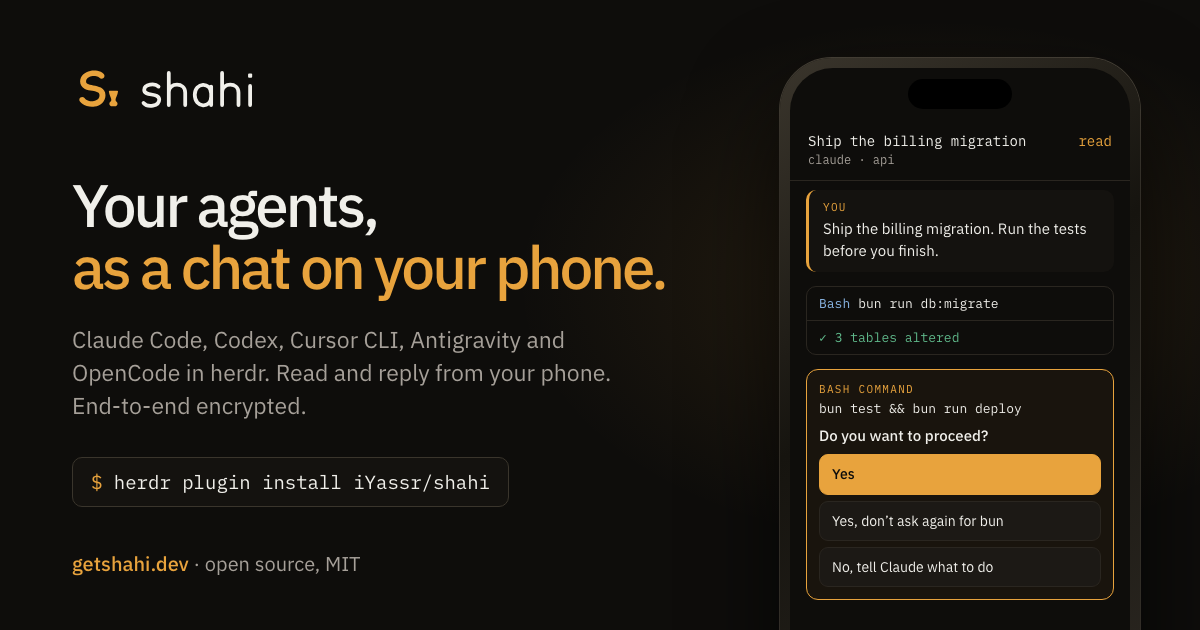
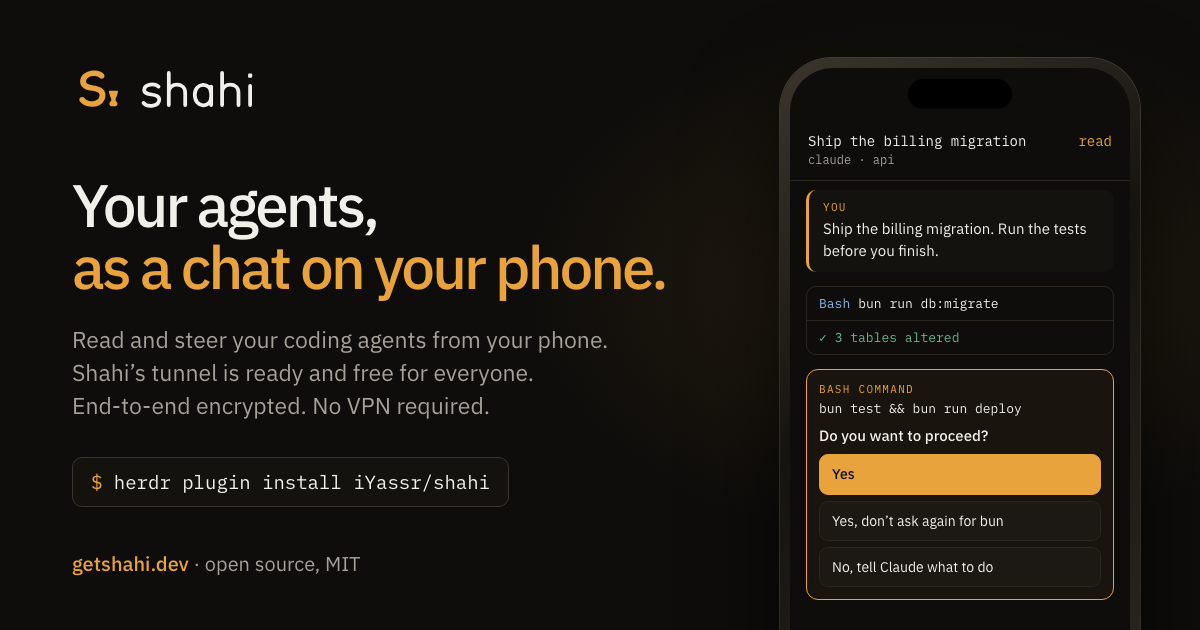
Explain the included tunnel and answer common setup questions

Changed region(s): [[0.0617, 0.5127, 0.5242, 0.6032], [0.2467, 0.6333, 0.4008, 0.6635]]

diff --git a/site/public/index.html b/site/public/index.html
@@ -4,7 +4,7 @@
 <meta charset="utf-8">
 <meta name="viewport" content="width=device-width, initial-scale=1">
 <title>Shahi — your herdr agents, as a chat on your phone.</title>
-<meta name="description" content="Read and steer Claude Code, Codex, Cursor CLI, Antigravity and OpenCode in herdr from your phone. End-to-end encrypted. Open source.">
+<meta name="description" content="Read and steer your herdr coding agents from your phone. Built-in Shahi tunnel, free for everyone. End-to-end encrypted. No VPN or port forwarding.">
 <meta name="color-scheme" content="dark">
 <meta name="theme-color" content="#0E0D0B">
 <link rel="canonical" href="https://getshahi.dev/">
@@ -12,7 +12,7 @@
      site/og/render.ts from og.html so the card stays on-brand and local. -->
 <meta property="og:site_name" content="Shahi">
 <meta property="og:title" content="Shahi — your herdr agents, as a chat on your phone.">
-<meta property="og:description" content="Read and steer Claude Code, Codex, Cursor CLI, Antigravity and OpenCode from your phone. Two commands, one scan, end-to-end encrypted.">
+<meta property="og:description" content="Your herdr coding agents, on your phone. A free Shahi tunnel, ready to use. End-to-end encrypted. No VPN or port forwarding.">
 <meta property="og:type" content="website">
 <meta property="og:url" content="https://getshahi.dev/">
 <meta property="og:image" content="https://getshahi.dev/og.png">
@@ -44,7 +44,7 @@
     <section class="hero" aria-labelledby="headline">
       <p class="eyebrow">A plugin for herdr, the terminal workspace for coding agents</p>
       <h1 id="headline">Your agents,<br><span>as a chat on your phone.</span></h1>
-      <p class="lede">Keep your coding agents moving when you step away. Read their work, answer questions and send the next instruction from your phone. Add one plugin to <a href="https://herdr.dev">herdr</a>, scan a QR code, and connect with <span class="nowrap">end-to-end</span> encryption.</p>
+      <p class="lede">Read your agents’ work and keep it moving from your phone. Shahi’s built-in tunnel is encrypted end to end, ready to use and free for everyone. Add the plugin to <a href="https://herdr.dev">herdr</a> and scan a QR code.</p>
       <div class="hero-actions">
         <div class="hero-buttons">
           <a class="button-primary" href="/pwa/">Open Shahi Web App <span aria-hidden="true">↗</span></a>
@@ -53,7 +53,7 @@
         </div>
         <a class="quiet-link" href="#quick-start">Set up your computer <span aria-hidden="true">↓</span></a>
       </div>
-      <p class="availability"><span>No account, VPN or open ports.</span> <span>Works in your phone’s browser · <a href="#ios-beta" data-beta-open>Join the iOS beta</a></span></p>
+      <p class="availability"><span>Free Shahi tunnel · No Shahi account, VPN or port forwarding.</span> <span>Works in your phone’s browser · <a href="#ios-beta" data-beta-open>Join the iOS beta</a></span></p>
       <div class="reader-providers" role="group" aria-labelledby="reader-providers-label">
         <p id="reader-providers-label">Reader support</p>
         <ul class="provider-list" role="list">
@@ -129,7 +129,7 @@
       <div>
         <p class="eyebrow">Setup</p>
         <h2 id="setup-title">Install. Scan. Connect.</h2>
-        <p>Two commands in herdr on your Mac or Linux computer, then one scan on your phone: about a minute once herdr is running.</p>
+        <p>Two commands in herdr on your Mac or Linux computer, then one scan on your phone: about a minute once herdr is running. The Shahi tunnel is included and connects automatically after pairing.</p>
         <!-- The code is a shahi:// link, which a phone's camera cannot hand to a browser. -->
         <p>On your phone, open <a href="/pwa/">getshahi.dev/pwa</a> and tap <strong>Scan QR code</strong>, or scan it with the iOS app. Your camera app can’t pass this code to the browser, so scan it from inside Shahi.</p>
         <p><strong>New to herdr?</strong> Shahi shows the agents you run inside it. <a href="https://herdr.dev">Install herdr first</a>, then start your agents there.</p>
@@ -207,6 +207,40 @@ herdr plugin action invoke shahi.pair</code></pre><p>Needs herdr 0.9.0 or newer,
         </form>
       </div>
     </dialog>
+
+    <section class="faq" id="faq" aria-labelledby="faq-title">
+      <h2 id="faq-title">Frequently asked questions.</h2>
+      <div class="faq-list">
+        <details>
+          <summary>What do I need before I connect?</summary>
+          <p>Install herdr and your coding agent’s CLI on your Mac or Linux computer, then sign in to the agent or configure its provider credentials. Run your agents inside herdr and install the Shahi plugin. The <a href="#quick-start">setup section</a> has the requirements and commands.</p>
+        </details>
+        <details>
+          <summary>Will my agents keep working when I close Shahi?</summary>
+          <p>Yes. Closing Shahi on your phone does not stop the agents running on your computer. Keep that computer or server awake and connected to the internet to receive live updates and send instructions.</p>
+        </details>
+        <details>
+          <summary>Which agents can I read in Shahi?</summary>
+          <p>Reader formats saved conversations from Claude Code, Codex, Cursor CLI, Antigravity and OpenCode. Coverage varies: some tool results, images and attachments are unavailable. Use Screen for the underlying terminal, including other agents herdr runs. See the <a href="https://github.com/iYassr/shahi/blob/master/docs/reader-providers-2026-09-27.md">Reader coverage and limits</a>.</p>
+        </details>
+        <details>
+          <summary>Is the Shahi tunnel free? Do I need a VPN?</summary>
+          <p>Shahi’s built-in tunnel is ready to use and free for everyone. It uses outbound internet connections, so you need no Shahi account, VPN or port forwarding. Your agents still use their own provider accounts; any agent subscriptions or API charges are separate.</p>
+        </details>
+        <details>
+          <summary>Can the relay read my conversations?</summary>
+          <p>No. Conversation, file and command content is encrypted end to end between your device and computer. The relay and Cloudflare can see connection metadata, including IP addresses, identifiers, traffic size and timing. Read about <a href="#connection-security">connection security and its limits</a>, including device security and optional notifications.</p>
+        </details>
+        <details>
+          <summary>Can I connect more than one computer?</summary>
+          <p>Yes. Pair each one from <strong>Settings → Computers → Add a computer</strong>. Tap the computer name on the main screen, or open Computers in Settings, to switch. Each computer keeps its own connection while Shahi is open.</p>
+        </details>
+        <details>
+          <summary>Is there an iPhone or Android app?</summary>
+          <p>The iPhone app is in a private TestFlight beta. <a href="#ios-beta">Request an invite</a>; invitations arrive by email as places become available. On Android, use the <a href="/pwa/">web app</a> and add it to your home screen. The web app also works on iPhone; a native Android release is not currently available.</p>
+        </details>
+      </div>
+    </section>
 
     <section class="closing" aria-labelledby="closing-title">
       <h2 id="closing-title">Two commands, one scan.</h2>

diff --git a/site/public/site.css b/site/public/site.css
@@ -125,9 +125,9 @@ figcaption { color: var(--muted); font-size: 12px; text-align: center; text-wrap
 /* One rhythm for every section below the example: the same rule above each, the same
    space around it, one heading size and one body size. They had grown five paddings,
    four heading sizes and 14px body text beside an 18px lede. */
-.setup, .features, .why, .security, .beta, .closing { padding: 64px 0; border-top: 1px solid var(--line); }
+.setup, .features, .why, .security, .beta, .faq, .closing { padding: 64px 0; border-top: 1px solid var(--line); }
 h2, .features h3 { text-wrap: balance; font-size: 19px; font-weight: 500; letter-spacing: -.025em; line-height: 1.3; margin: 20px 0 12px; }
-.setup h2, .why h2, .security h2, .beta h2, .closing h2 { font-size: clamp(26px, 3.2vw, 34px); letter-spacing: -.03em; line-height: 1.2; margin: 0 0 16px; }
+.setup h2, .why h2, .security h2, .beta h2, .faq h2, .closing h2 { font-size: clamp(26px, 3.2vw, 34px); letter-spacing: -.03em; line-height: 1.2; margin: 0 0 16px; }
 /* :where() adds nothing to the weight, so .command p below still sets its caption's size. */
 .features p, .setup p:where(:not(.eyebrow)) { font-size: 16px; color: var(--muted); margin: 0; }
 .features { display: grid; grid-template-columns: repeat(3, 1fr); gap: 42px; }
@@ -155,7 +155,7 @@ footer nav { display: flex; gap: 24px; }footer a { display: inline-flex; align-i
 /* Below 960px the three feature columns ran seven to nine lines each, and two setup
    columns left the commands a 302px box (at 768) where they need 322px. */
 @media (max-width: 960px) { .features { grid-template-columns: 1fr; gap: 28px; }.features article { display: grid; grid-template-columns: 30px 1fr; gap: 0 14px; max-width: 680px; }.feature-number { grid-row: 1 / 3; padding-top: 5px; }.features h3 { margin: 0 0 8px; }.features p { grid-column: 2; }.setup { grid-template-columns: 1fr; gap: 28px; }.command { max-width: 560px; } }
-@media (max-width: 760px) { .wrap { padding: 0 24px; }.masthead { padding: 24px 0; }.hero { padding: 48px 0; }.launch { margin-bottom: 40px; }.launch-video video { aspect-ratio: 1; border-radius: 12px; }.product-frame { grid-template-columns: 1fr; }.inbox { border-right: 0; }.inbox .panel-heading { min-height: 50px; }.agent-row { padding: 14px 20px; }.agent-row:not(.selected), .preview-nav { display: none; }.selected > div { display: grid; grid-template-columns: 1fr auto; gap: 0 16px; width: 100%; }.selected .state { grid-column: 2; grid-row: 1 / 3; margin: 0; }.reader > .panel-heading { display: none; }.setup, .features, .why, .security, .beta, .closing { padding: 48px 0; }.conversation { padding: 20px; font-size: 16px; } }
+@media (max-width: 760px) { .wrap { padding: 0 24px; }.masthead { padding: 24px 0; }.hero { padding: 48px 0; }.launch { margin-bottom: 40px; }.launch-video video { aspect-ratio: 1; border-radius: 12px; }.product-frame { grid-template-columns: 1fr; }.inbox { border-right: 0; }.inbox .panel-heading { min-height: 50px; }.agent-row { padding: 14px 20px; }.agent-row:not(.selected), .preview-nav { display: none; }.selected > div { display: grid; grid-template-columns: 1fr auto; gap: 0 16px; width: 100%; }.selected .state { grid-column: 2; grid-row: 1 / 3; margin: 0; }.reader > .panel-heading { display: none; }.setup, .features, .why, .security, .beta, .faq, .closing { padding: 48px 0; }.conversation { padding: 20px; font-size: 16px; } }
 /* The arrow and its gap stay outside the centred label, matching the second
    button. Compact type and top space keep the two hero actions reachable on
    phones; provider names sit below them instead of lengthening the lede. */
@@ -175,6 +175,15 @@ footer nav { display: flex; gap: 24px; }footer a { display: inline-flex; align-i
 .closing h2 { margin: 0; }
 .closing p { max-width: 560px; margin: 0; font-size: 16px; color: var(--muted); }
 .closing .quiet-link { justify-self: start; }
+
+/* Native disclosures keep keyboard support and open state without JavaScript. */
+.faq { scroll-margin-top: 24px; }
+.faq-list { max-width: 760px; }
+.faq details { border-top: 1px solid var(--line); }
+.faq summary { min-height: 56px; padding: 14px 0; cursor: pointer; font-weight: 500; line-height: 1.5; }
+.faq summary::marker { color: var(--muted); }
+.faq summary:hover { color: var(--accent); }
+.faq details p { margin: 0 0 18px; color: var(--muted); font-size: 16px; }
 
 /* The iOS beta form lives in a modal dialog, opened from the hero, the availability line and the beta section. */
 .beta-dialog { width: min(100% - 32px, 520px); padding: 0; border: 1px solid var(--line-bright); border-radius: var(--radius-card); background: var(--surface); color: var(--text); box-shadow: 0 24px 70px #00000080; overscroll-behavior: contain; }

diff --git a/site/og/og.html b/site/og/og.html
@@ -51,7 +51,7 @@
 <div class="copy">
   <div class="brand"><img src="/public/favicon.svg" alt=""><img src="/public/wordmark.svg" alt=""></div>
   <h1>Your agents,<br><span>as a chat on your phone.</span></h1>
-  <p>Claude Code, Codex, Cursor CLI, Antigravity and OpenCode in herdr. Read and reply from your phone. <span class="nowrap">End-to-end</span> encrypted.</p>
+  <p>Read and steer your coding agents from your phone.<br>Shahi’s tunnel is ready and free for everyone.<br><span class="nowrap">End-to-end</span> encrypted. No VPN required.</p>
   <div class="cmd"><b>$</b> herdr plugin install iYassr/shahi</div>
 </div>
 <div class="foot"><b>getshahi.dev</b> · open source, MIT</div>

diff --git a/README.md b/README.md
@@ -9,7 +9,8 @@
 Read, answer and steer your Claude Code, Codex, Cursor CLI,<br>
 Antigravity and OpenCode sessions in herdr from your phone.
 
-**Two commands, one scan, about a minute.** End-to-end encrypted. No account, VPN or open port.
+**Two commands, one scan, about a minute.** Shahi's encrypted tunnel is ready to
+use and free for everyone. No VPN, port forwarding or Shahi account required.
 
 [![CI](https://github.com/iYassr/shahi/actions/workflows/ci.yml/badge.svg)](https://github.com/iYassr/shahi/actions/workflows/ci.yml)
 [![License: MIT](https://img.shields.io/badge/License-MIT-black.svg)](LICENSE)
@@ -66,8 +67,9 @@ Reader formats the content each supported agent records, with no per-tool layout
 to configure. Coverage differs by provider; the table below lists the main
 limits. Screen mode remains available for the terminal itself.
 
-- **Scan and connect.** The default connection uses a pairing QR code. No Shahi
-  account, public server port, VPN installation, or domain setup is needed.
+- **A free tunnel, ready to use.** Scan a pairing QR code to connect through
+  Shahi's built-in encrypted tunnel. It is free for everyone, with no Shahi
+  account, public server port, VPN installation or domain setup needed.
 - **Read comfortably.** Conversation view formats messages, code, tool calls,
   and results for a small screen. Screen mode shows the underlying terminal.
 - **Keep work moving.** Answer supported permission prompts inline, send a
@@ -300,6 +302,11 @@ systemctl --user daemon-reload
 
 ## How it connects
 
+**Shahi's tunnel is included, ready to use and free for everyone.** There is no
+VPN to install, tunnel service to subscribe to, or port forwarding to configure.
+Your coding agents still use their own providers and any accounts or plans
+those providers require.
+
 Both your phone and your computer make an **outbound connection** to Shahi’s
 relay. That lets them find each other without opening an inbound port on your
 computer or configuring your router.
@@ -373,6 +380,78 @@ what the published security reviews do—and do not—establish. The project has
 not had an independent security audit. For data collection
 and retention, read the [privacy policy](docs/privacy-policy.md). Report security
 issues through [SECURITY.md](SECURITY.md).
+
+## FAQ
+
+<details>
+<summary>What do I need on my computer?</summary>
+
+Install herdr and the coding agents you want to use, sign in to those agents on
+the computer, then add the Shahi plugin. Run the agents inside herdr so Shahi can
+find them. See [Quick start](#quick-start) for versions and setup commands.
+
+</details>
+
+<details>
+<summary>Will my agents keep working when I close Shahi?</summary>
+
+Closing Shahi on your phone does not stop the agents on your computer. The
+computer must remain awake, connected and running herdr. An agent waiting for
+permission or an answer still needs your response before it can continue.
+
+</details>
+
+<details>
+<summary>Which agents can I read as a conversation?</summary>
+
+Claude Code, Codex, Cursor CLI, Antigravity and OpenCode. Coverage depends on the
+transcript each agent records; some results and attachments are unavailable.
+The [coverage table](#supported-agents) explains the limits. Screen mode shows
+the original terminal for other agents and output Reader cannot format.
+
+</details>
+
+<details>
+<summary>Is the Shahi tunnel free? Do I need a VPN?</summary>
+
+The built-in Shahi tunnel is ready to use and free for everyone. No Shahi
+account, VPN or port forwarding is needed: both devices connect outward through
+the encrypted relay, paired with a one-time QR code. Your coding agent's account
+or subscription is separate. The iPhone app also supports your existing SSH connection;
+see [connection options](#how-it-connects).
+
+</details>
+
+<details>
+<summary>Can the relay read my code or conversations?</summary>
+
+The relay forwards encrypted content without the keys to read it. It and its
+hosting provider can see connection metadata, including IP addresses, traffic
+sizes and timing. Your connected devices can read the content. The
+[privacy policy](https://getshahi.dev/privacy) also explains diagnostics,
+notifications and data retention; it is linked from Connect and Settings in
+the app.
+
+</details>
+
+<details>
+<summary>Can I connect more than one computer?</summary>
+
+Yes. Add each computer from **Settings → Computers → Add a computer**, then
+switch using the computer name on the main screen. Each computer has its own
+pairing and sessions.
+
+</details>
+
+<details>
+<summary>Is Shahi available for iPhone and Android?</summary>
+
+The web app works in a modern phone browser and can be added to the home screen.
+The native iPhone app is in private TestFlight beta; [request an
+invite](https://getshahi.dev/#ios-beta) and wait for the invitation email. A native
+Android app is not currently available.
+
+</details>
 
 ## Development
 

diff --git a/plugin/releases/notes/0.3.12.md b/plugin/releases/notes/0.3.12.md
@@ -4,7 +4,7 @@ The new s-and-tea-glass mark appears throughout the web app, website, browser ic
 
 ### Clearer setup and Reader coverage
 
-The README and landing page now show all five supported Readers: Claude Code, Codex, Cursor CLI, Antigravity and OpenCode. Coverage notes explain missing provider data, and setup guidance covers Linux supervision and private TestFlight access.
+The README and landing page now show all five supported Readers: Claude Code, Codex, Cursor CLI, Antigravity and OpenCode. A new FAQ explains setup, connection privacy, multiple computers and beta access. Shahi's included encrypted tunnel is clearly presented as ready to use and free for everyone, with no VPN or port forwarding required.
 
 ### Compatibility
 
